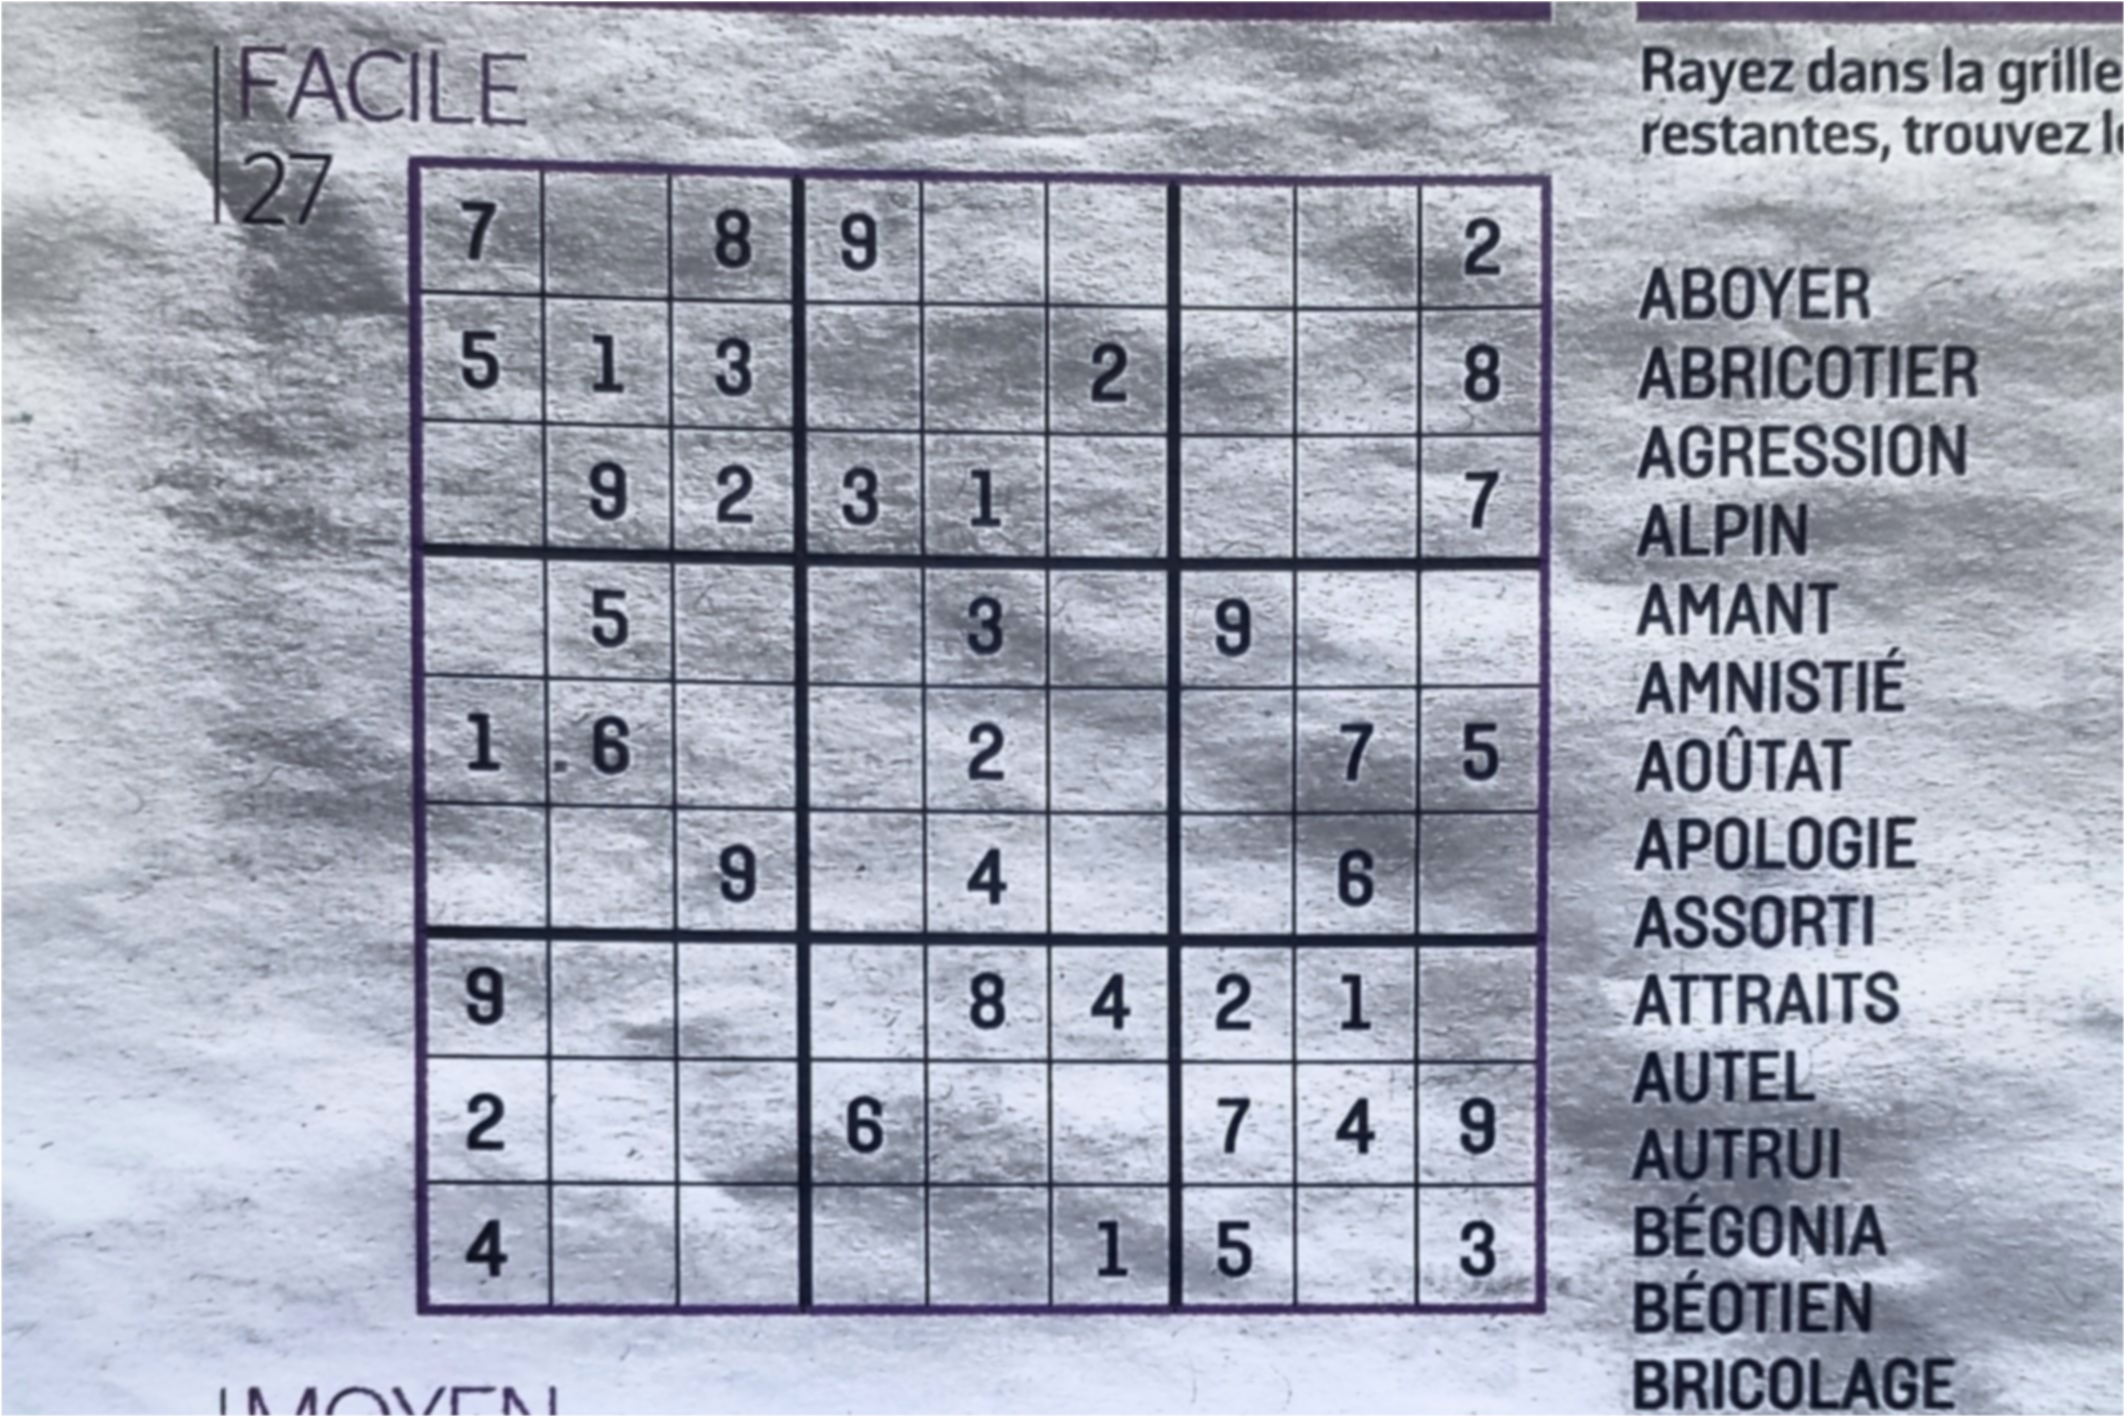
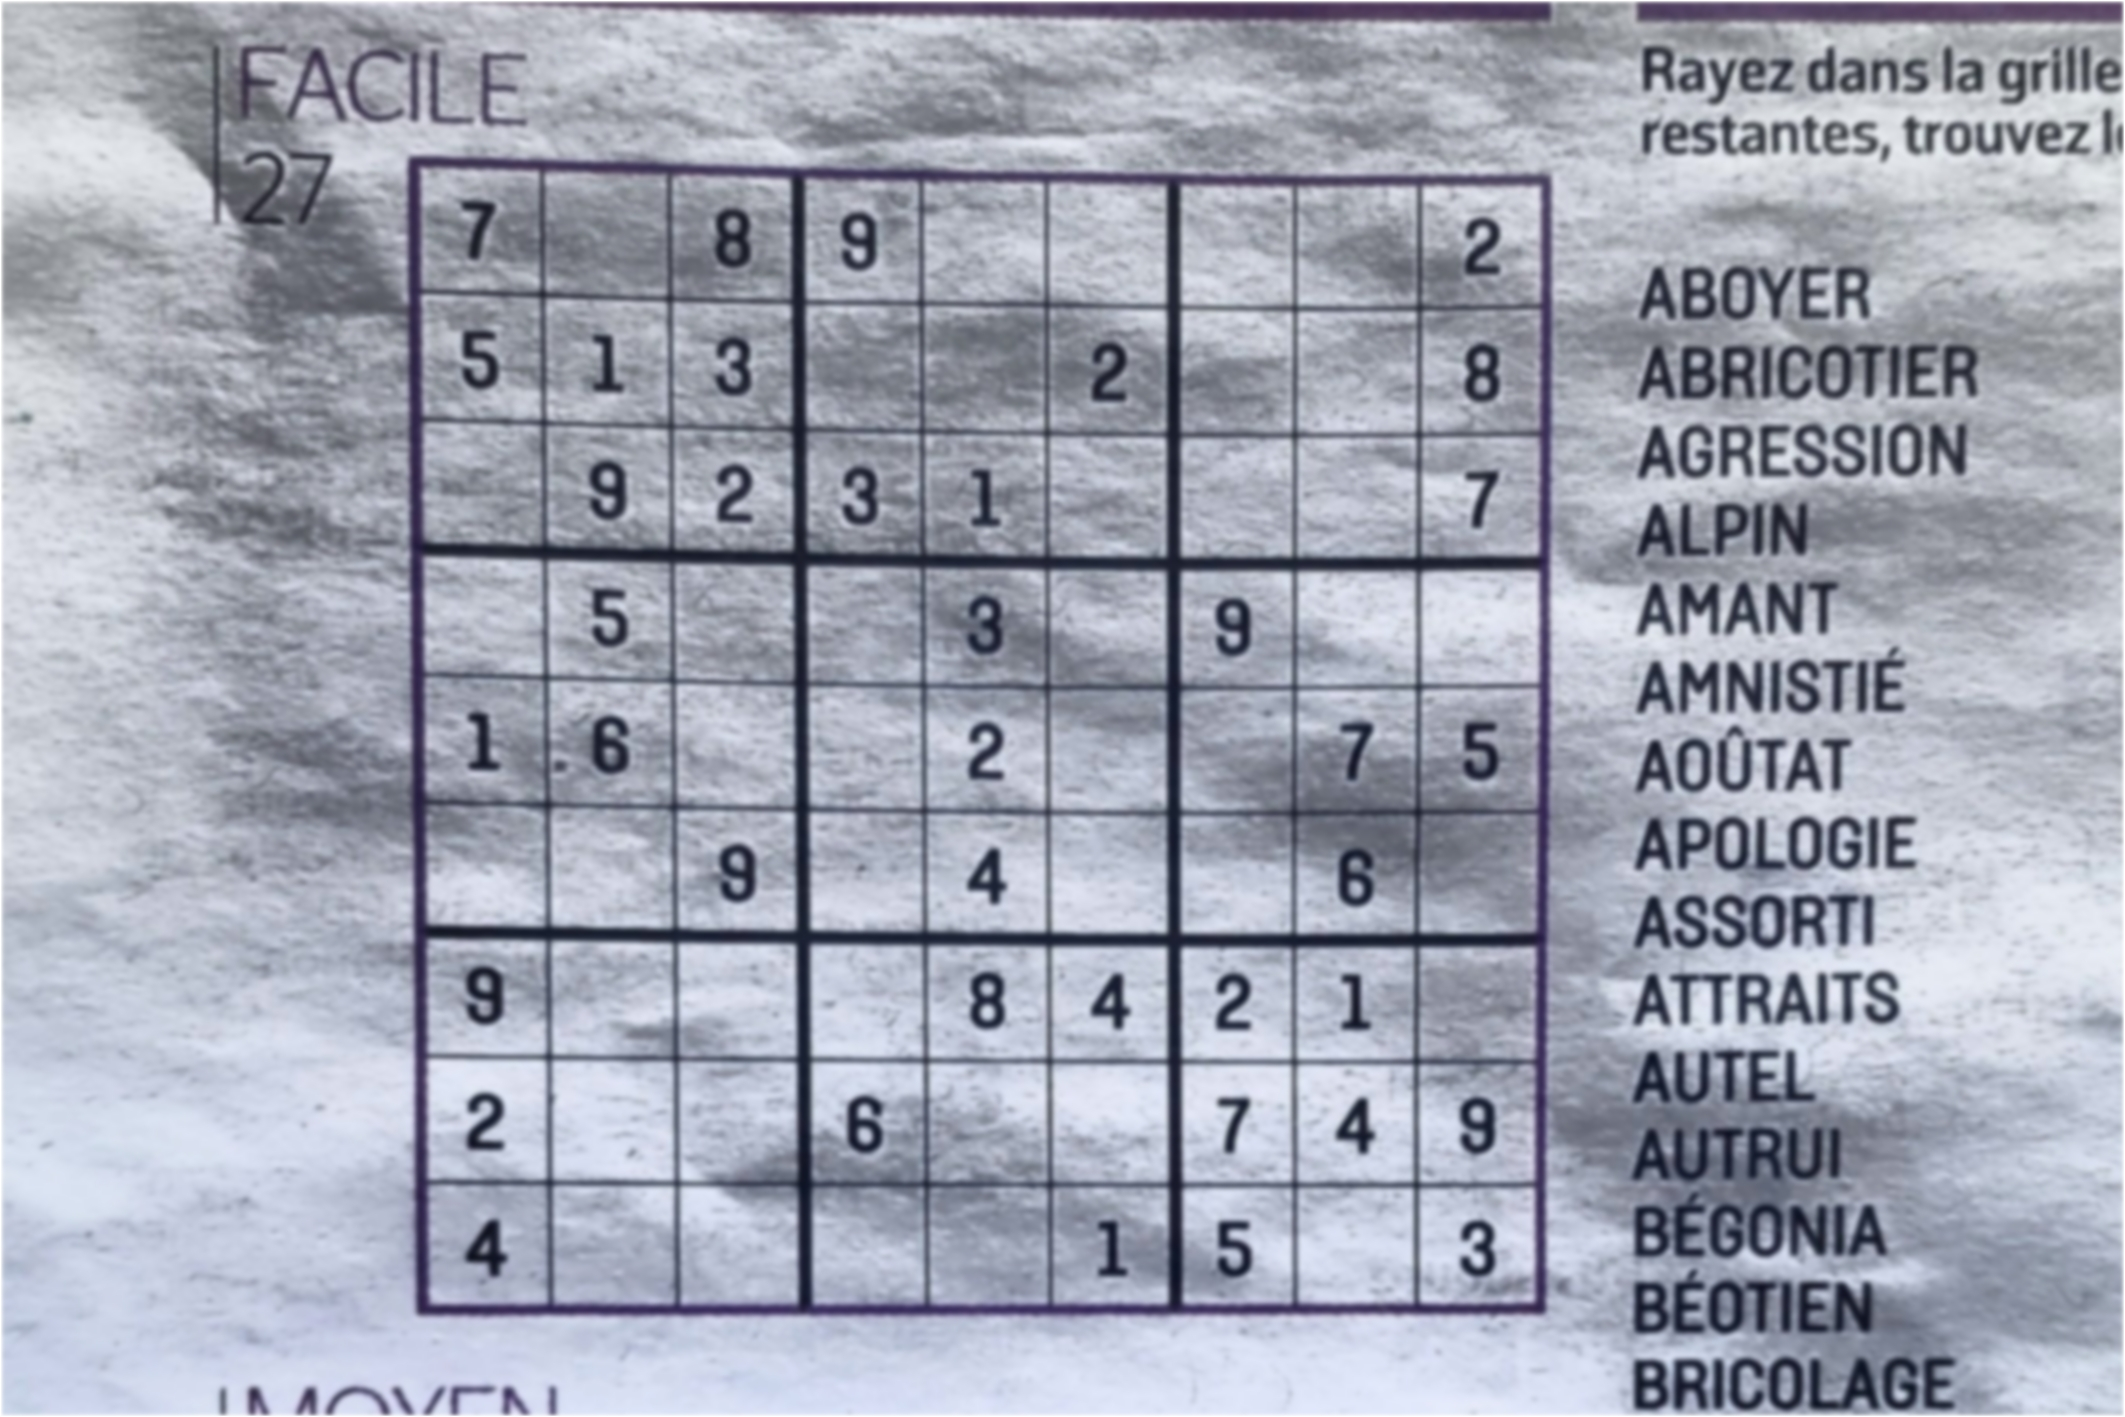
[*]

diff --git a/src/imageProcess/noise_reduction.c b/src/imageProcess/noise_reduction.c
@@ -5,7 +5,7 @@
 
 #include "../tools/image.h"
 
-SDL_Surface* noise_reduction(SDL_Surface* image){
+SDL_Surface* noise_reduction(SDL_Surface* image, float x){
   SDL_Surface* ret = create_empty(image->w, image->h);
   for (int i = 1; i < image->w-1; i++) {
         for (int j = 1; j < image->h-1; j++) {
@@ -17,6 +17,24 @@ SDL_Surface* noise_reduction(SDL_Surface* image){
                 r+=pixel.r;
                 g+=pixel.g;
                 b+=pixel.b;
+                if(r > pixel.r){
+                  pixel.r=pixel.r*(1+x);
+                }
+                else{
+                  pixel.r=pixel.r*(1-x);
+                }
+                if(r > pixel.r){
+                  pixel.r=pixel.r*(1+x);
+                }
+                else{
+                  pixel.r=pixel.r*(1-x);
+                }
+                if(r > pixel.r){
+                  pixel.r=pixel.r*(1+x);
+                }
+                else{
+                  pixel.r=pixel.r*(1-x);
+                }
                 set_pixel(ret,i,j,to_color(r/9,g/9,b/9,0));
               }
             }

diff --git a/src/imageProcess/main.c b/src/imageProcess/main.c
@@ -12,11 +12,14 @@
 int main() {
   SDL_Surface* image = load("./tests/assets/image_04.jpeg");
   save(image, "generate.jpeg");
-  image = noise_reduction(image);
-  image = noise_reduction(image);
-  image = noise_reduction(image);
-  image = noise_reduction(image);
+  for(int i = 0; i < 10; i++){
+    image = noise_reduction(image,0.8);
+  }
+
+
   save(image, "generate1.jpeg");
+  image = to_black_and_white(image);
+  save(image, "generate2.jpeg");
 
   return 0;
 }

diff --git a/src/imageProcess/noise_reduction.h b/src/imageProcess/noise_reduction.h
@@ -3,6 +3,6 @@
 
 #include <SDL2/SDL.h>
 
-SDL_Surface* noise_reduction(SDL_Surface* image);
+SDL_Surface* noise_reduction(SDL_Surface* image,float x);
 
 #endif
